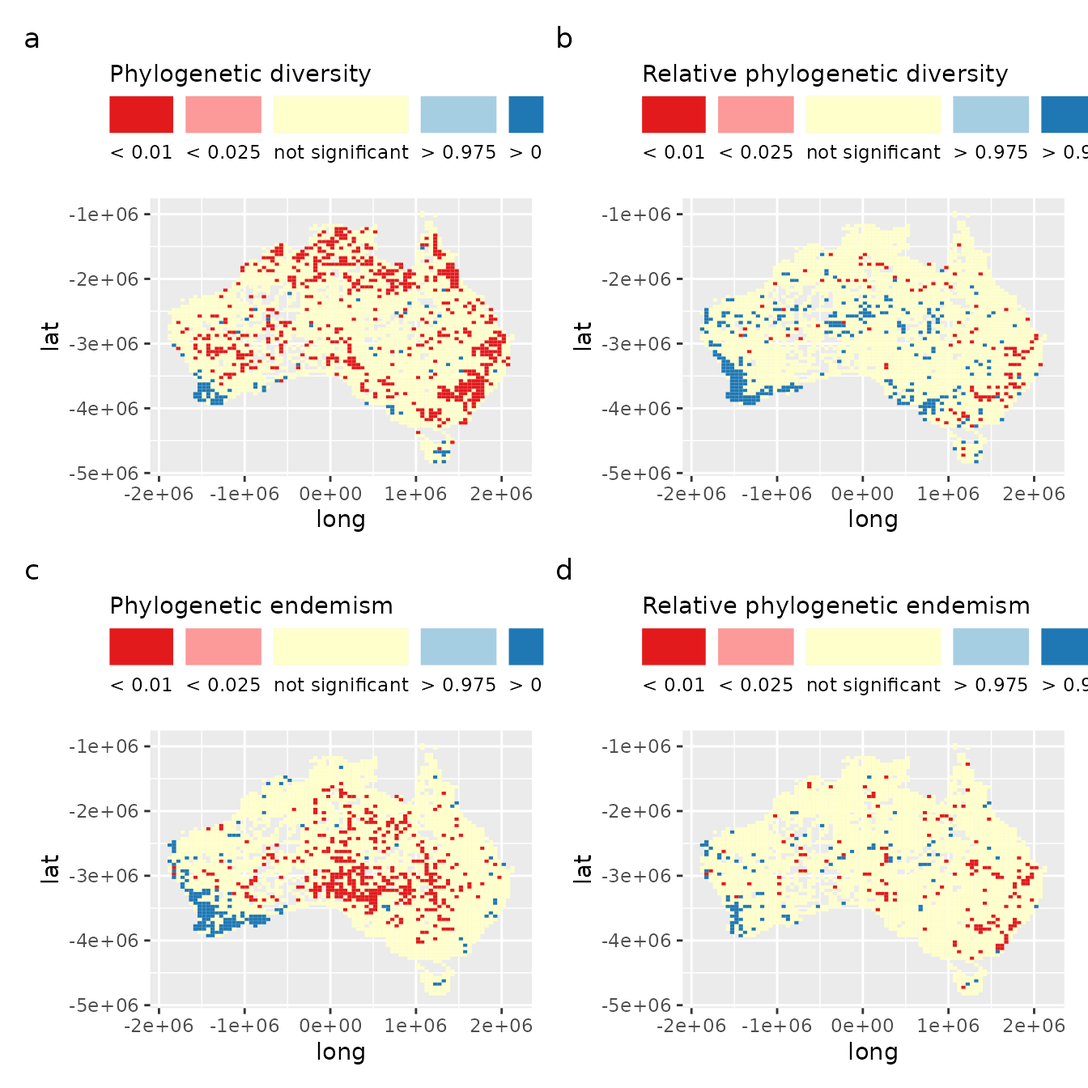
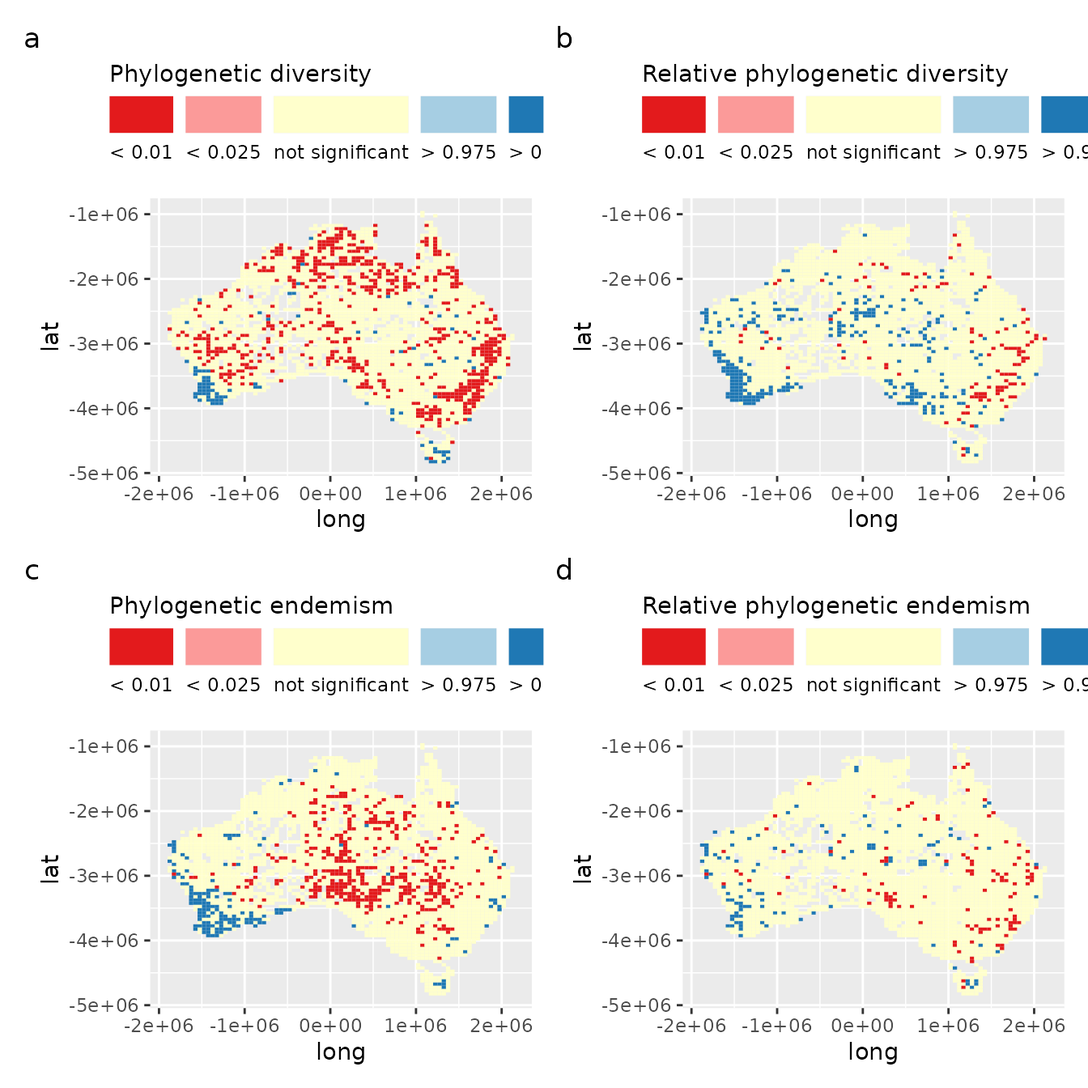
Deploying to gh-pages from @ joelnitta/canaper@78313fb76f9daac3ecedebcfb2779b6495ab327d 🚀

diff --git a/articles/canape.html b/articles/canape.html
@@ -87,7 +87,7 @@
       <h1 data-toc-skip>CANAPE example</h1>
                         <h4 data-toc-skip class="author">Joel H. Nitta</h4>
             
-            <h4 data-toc-skip class="date">27 August, 2022</h4>
+            <h4 data-toc-skip class="date">31 August, 2022</h4>
       
       <small class="dont-index">Source: <a href="https://github.com/joelnitta/canaper/blob/HEAD/vignettes/canape.Rmd" class="external-link"><code>vignettes/canape.Rmd</code></a></small>
       <div class="hidden name"><code>canape.Rmd</code></div>
@@ -128,26 +128,26 @@
 <p>The second, <code>comm</code>, is a community dataframe with species as columns and rows as sites. The row names (sites) correspond to the centroids of 50 x 50 km grid cells covering Australia. The community matrix is too large to print out in its entirety, so we will just take a look at the first 8 rows and columns<a href="#fn1" class="footnote-ref" id="fnref1"><sup>1</sup></a>:</p>
 <div class="sourceCode" id="cb4"><pre class="downlit sourceCode r">
 <code class="sourceCode R"><span><span class="fu"><a href="https://rdrr.io/r/base/dim.html" class="external-link">dim</a></span><span class="op">(</span><span class="va">acacia</span><span class="op">$</span><span class="va">comm</span><span class="op">)</span></span>
-<span><span class="co">#&gt; [1] 3037  506</span></span>
+<span><span class="co">#&gt; [1] 3037  508</span></span>
 <span><span class="va">acacia</span><span class="op">$</span><span class="va">comm</span><span class="op">[</span><span class="fl">1</span><span class="op">:</span><span class="fl">8</span>, <span class="fl">1</span><span class="op">:</span><span class="fl">8</span><span class="op">]</span></span>
-<span><span class="co">#&gt;                     abbreviata acanthaster acanthoclada acinacea aciphylla</span></span>
-<span><span class="co">#&gt; '-1025000:-1825000'          0           0            0        0         0</span></span>
-<span><span class="co">#&gt; '-1025000:-1875000'          0           0            0        0         0</span></span>
-<span><span class="co">#&gt; '-1025000:-1925000'          0           0            0        0         0</span></span>
-<span><span class="co">#&gt; '-1025000:-1975000'          0           0            0        0         0</span></span>
-<span><span class="co">#&gt; '-1025000:-2025000'          0           0            0        0         0</span></span>
-<span><span class="co">#&gt; '-1025000:-2075000'          0           0            0        0         0</span></span>
-<span><span class="co">#&gt; '-1025000:-2125000'          0           0            0        0         0</span></span>
-<span><span class="co">#&gt; '-1025000:-2225000'          0           0            0        0         0</span></span>
-<span><span class="co">#&gt;                     acoma acradenia acrionastes</span></span>
-<span><span class="co">#&gt; '-1025000:-1825000'     0         0           0</span></span>
-<span><span class="co">#&gt; '-1025000:-1875000'     0         0           0</span></span>
-<span><span class="co">#&gt; '-1025000:-1925000'     0         0           0</span></span>
-<span><span class="co">#&gt; '-1025000:-1975000'     0         0           0</span></span>
-<span><span class="co">#&gt; '-1025000:-2025000'     0         0           0</span></span>
-<span><span class="co">#&gt; '-1025000:-2075000'     0         0           0</span></span>
-<span><span class="co">#&gt; '-1025000:-2125000'     0         0           0</span></span>
-<span><span class="co">#&gt; '-1025000:-2225000'     0         0           0</span></span></code></pre></div>
+<span><span class="co">#&gt;                   abbreviata acanthaster acanthoclada acinacea aciphylla acoma</span></span>
+<span><span class="co">#&gt; -1025000:-1825000          0           0            0        0         0     0</span></span>
+<span><span class="co">#&gt; -1025000:-1875000          0           0            0        0         0     0</span></span>
+<span><span class="co">#&gt; -1025000:-1925000          0           0            0        0         0     0</span></span>
+<span><span class="co">#&gt; -1025000:-1975000          0           0            0        0         0     0</span></span>
+<span><span class="co">#&gt; -1025000:-2025000          0           0            0        0         0     0</span></span>
+<span><span class="co">#&gt; -1025000:-2075000          0           0            0        0         0     0</span></span>
+<span><span class="co">#&gt; -1025000:-2125000          0           0            0        0         0     0</span></span>
+<span><span class="co">#&gt; -1025000:-2225000          0           0            0        0         0     0</span></span>
+<span><span class="co">#&gt;                   acradenia acrionastes</span></span>
+<span><span class="co">#&gt; -1025000:-1825000         0           0</span></span>
+<span><span class="co">#&gt; -1025000:-1875000         0           0</span></span>
+<span><span class="co">#&gt; -1025000:-1925000         0           0</span></span>
+<span><span class="co">#&gt; -1025000:-1975000         0           0</span></span>
+<span><span class="co">#&gt; -1025000:-2025000         0           0</span></span>
+<span><span class="co">#&gt; -1025000:-2075000         0           0</span></span>
+<span><span class="co">#&gt; -1025000:-2125000         0           0</span></span>
+<span><span class="co">#&gt; -1025000:-2225000         0           0</span></span></code></pre></div>
 </div>
 <div class="section level2">
 <h2 id="randomization-test">Randomization test<a class="anchor" aria-label="anchor" href="#randomization-test"></a>
@@ -183,9 +183,9 @@
 <span>  tbl_out <span class="op">=</span> <span class="cn">TRUE</span></span>
 <span><span class="op">)</span></span>
 <span><span class="co">#&gt; Warning in match_phylo_comm(phy = phy, comm = comm): Dropping tips from the tree because they are not present in the community data: </span></span>
-<span><span class="co">#&gt;  Pararchidendron_pruinosum, Paraserianthes_lophantha, saligna, clunies-rossiae</span></span>
+<span><span class="co">#&gt;  Pararchidendron_pruinosum, Paraserianthes_lophantha</span></span>
 <span><span class="fu"><a href="https://rdrr.io/pkg/tictoc/man/tic.html" class="external-link">toc</a></span><span class="op">(</span><span class="op">)</span> <span class="co"># See how long it took</span></span>
-<span><span class="co">#&gt; 24.798 sec elapsed</span></span>
+<span><span class="co">#&gt; 35.723 sec elapsed</span></span>
 <span></span>
 <span><span class="co"># Switch back to sequential (non-parallel) mode</span></span>
 <span><span class="fu"><a href="https://future.futureverse.org/reference/plan.html" class="external-link">plan</a></span><span class="op">(</span><span class="va">sequential</span><span class="op">)</span></span></code></pre></div>
@@ -195,16 +195,16 @@
 <span><span class="co">#&gt; <span style="color: #949494;"># A tibble: 3,037 × 55</span></span></span>
 <span><span class="co">#&gt;    site   pd_obs pd_ra…¹ pd_ra…² pd_ob…³ pd_ob…⁴ pd_ob…⁵ pd_ob…⁶ pd_ob…⁷ pd_ob…⁸</span></span>
 <span><span class="co">#&gt;    <span style="color: #949494; font-style: italic;">&lt;chr&gt;</span>   <span style="color: #949494; font-style: italic;">&lt;dbl&gt;</span>   <span style="color: #949494; font-style: italic;">&lt;dbl&gt;</span>   <span style="color: #949494; font-style: italic;">&lt;dbl&gt;</span>   <span style="color: #949494; font-style: italic;">&lt;dbl&gt;</span>   <span style="color: #949494; font-style: italic;">&lt;dbl&gt;</span>   <span style="color: #949494; font-style: italic;">&lt;dbl&gt;</span>   <span style="color: #949494; font-style: italic;">&lt;dbl&gt;</span>   <span style="color: #949494; font-style: italic;">&lt;dbl&gt;</span>   <span style="color: #949494; font-style: italic;">&lt;dbl&gt;</span></span></span>
-<span><span class="co">#&gt; <span style="color: #BCBCBC;"> 1</span> '-102… 0.014<span style="text-decoration: underline;">5</span>  0.021<span style="text-decoration: underline;">5</span> 0.003<span style="text-decoration: underline;">85</span> -<span style="color: #BB0000;">1.82</span>         0      20      20    0       1   </span></span>
-<span><span class="co">#&gt; <span style="color: #BCBCBC;"> 2</span> '-102… 0.038<span style="text-decoration: underline;">3</span>  0.052<span style="text-decoration: underline;">1</span> 0.007<span style="text-decoration: underline;">62</span> -<span style="color: #BB0000;">1.81</span>         0      20      20    0       1   </span></span>
-<span><span class="co">#&gt; <span style="color: #BCBCBC;"> 3</span> '-102… 0.037<span style="text-decoration: underline;">9</span>  0.037<span style="text-decoration: underline;">2</span> 0.006<span style="text-decoration: underline;">56</span>  0.106       11       9      20    0.55    0.45</span></span>
-<span><span class="co">#&gt; <span style="color: #BCBCBC;"> 4</span> '-102… 0.057<span style="text-decoration: underline;">1</span>  0.062<span style="text-decoration: underline;">2</span> 0.007<span style="text-decoration: underline;">78</span> -<span style="color: #BB0000;">0.651</span>        6      14      20    0.3     0.7 </span></span>
-<span><span class="co">#&gt; <span style="color: #BCBCBC;"> 5</span> '-102… 0.041<span style="text-decoration: underline;">0</span>  0.040<span style="text-decoration: underline;">8</span> 0.006<span style="text-decoration: underline;">01</span>  0.020<span style="text-decoration: underline;">8</span>      10      10      20    0.5     0.5 </span></span>
-<span><span class="co">#&gt; <span style="color: #BCBCBC;"> 6</span> '-102… 0.010<span style="text-decoration: underline;">0</span>  0.011<span style="text-decoration: underline;">0</span> 0.002<span style="text-decoration: underline;">13</span> -<span style="color: #BB0000;">0.471</span>       11       9      20    0.55    0.45</span></span>
-<span><span class="co">#&gt; <span style="color: #BCBCBC;"> 7</span> '-102… 0.018<span style="text-decoration: underline;">8</span>  0.023<span style="text-decoration: underline;">6</span> 0.004<span style="text-decoration: underline;">82</span> -<span style="color: #BB0000;">1.01</span>         3      17      20    0.15    0.85</span></span>
-<span><span class="co">#&gt; <span style="color: #BCBCBC;"> 8</span> '-102… 0.043<span style="text-decoration: underline;">5</span>  0.054<span style="text-decoration: underline;">1</span> 0.009<span style="text-decoration: underline;">62</span> -<span style="color: #BB0000;">1.10</span>         3      17      20    0.15    0.85</span></span>
-<span><span class="co">#&gt; <span style="color: #BCBCBC;"> 9</span> '-102… 0.011<span style="text-decoration: underline;">1</span>  0.010<span style="text-decoration: underline;">5</span> 0.001<span style="text-decoration: underline;">95</span>  0.349       14       6      20    0.7     0.3 </span></span>
-<span><span class="co">#&gt; <span style="color: #BCBCBC;">10</span> '-102… 0.090<span style="text-decoration: underline;">5</span>  0.085<span style="text-decoration: underline;">3</span> 0.009<span style="text-decoration: underline;">94</span>  0.519       14       6      20    0.7     0.3 </span></span>
+<span><span class="co">#&gt; <span style="color: #BCBCBC;"> 1</span> -102… 0.014<span style="text-decoration: underline;">5</span>  0.024<span style="text-decoration: underline;">1</span>  0.005<span style="text-decoration: underline;">82</span> -<span style="color: #BB0000;">1.65</span>         1      19      20    0.05    0.95</span></span>
+<span><span class="co">#&gt; <span style="color: #BCBCBC;"> 2</span> -102… 0.038<span style="text-decoration: underline;">2</span>  0.048<span style="text-decoration: underline;">9</span>  0.007<span style="text-decoration: underline;">42</span> -<span style="color: #BB0000;">1.44</span>         1      19      20    0.05    0.95</span></span>
+<span><span class="co">#&gt; <span style="color: #BCBCBC;"> 3</span> -102… 0.037<span style="text-decoration: underline;">8</span>  0.037<span style="text-decoration: underline;">3</span>  0.005<span style="text-decoration: underline;">90</span>  0.080<span style="text-decoration: underline;">3</span>      10      10      20    0.5     0.5 </span></span>
+<span><span class="co">#&gt; <span style="color: #BCBCBC;"> 4</span> -102… 0.057<span style="text-decoration: underline;">0</span>  0.062<span style="text-decoration: underline;">3</span>  0.009<span style="text-decoration: underline;">17</span> -<span style="color: #BB0000;">0.573</span>        7      13      20    0.35    0.65</span></span>
+<span><span class="co">#&gt; <span style="color: #BCBCBC;"> 5</span> -102… 0.040<span style="text-decoration: underline;">9</span>  0.041<span style="text-decoration: underline;">5</span>  0.005<span style="text-decoration: underline;">75</span> -<span style="color: #BB0000;">0.119</span>       11       9      20    0.55    0.45</span></span>
+<span><span class="co">#&gt; <span style="color: #BCBCBC;"> 6</span> -102… 0.009<span style="text-decoration: underline;">98</span> 0.010<span style="text-decoration: underline;">3</span>  0.001<span style="text-decoration: underline;">78</span> -<span style="color: #BB0000;">0.190</span>        8      12      20    0.4     0.6 </span></span>
+<span><span class="co">#&gt; <span style="color: #BCBCBC;"> 7</span> -102… 0.018<span style="text-decoration: underline;">7</span>  0.021<span style="text-decoration: underline;">4</span>  0.003<span style="text-decoration: underline;">94</span> -<span style="color: #BB0000;">0.689</span>        6      14      20    0.3     0.7 </span></span>
+<span><span class="co">#&gt; <span style="color: #BCBCBC;"> 8</span> -102… 0.043<span style="text-decoration: underline;">4</span>  0.056<span style="text-decoration: underline;">4</span>  0.007<span style="text-decoration: underline;">82</span> -<span style="color: #BB0000;">1.66</span>         1      19      20    0.05    0.95</span></span>
+<span><span class="co">#&gt; <span style="color: #BCBCBC;"> 9</span> -102… 0.011<span style="text-decoration: underline;">1</span>  0.009<span style="text-decoration: underline;">89</span> 0.001<span style="text-decoration: underline;">73</span>  0.704       17       3      20    0.85    0.15</span></span>
+<span><span class="co">#&gt; <span style="color: #BCBCBC;">10</span> -102… 0.090<span style="text-decoration: underline;">3</span>  0.087<span style="text-decoration: underline;">8</span>  0.010<span style="text-decoration: underline;">4</span>   0.246       11       9      20    0.55    0.45</span></span>
 <span><span class="co">#&gt; <span style="color: #949494;"># … with 3,027 more rows, 45 more variables: pd_alt_obs &lt;dbl&gt;,</span></span></span>
 <span><span class="co">#&gt; <span style="color: #949494;">#   pd_alt_rand_mean &lt;dbl&gt;, pd_alt_rand_sd &lt;dbl&gt;, pd_alt_obs_z &lt;dbl&gt;,</span></span></span>
 <span><span class="co">#&gt; <span style="color: #949494;">#   pd_alt_obs_c_upper &lt;dbl&gt;, pd_alt_obs_c_lower &lt;dbl&gt;, pd_alt_obs_q &lt;dbl&gt;,</span></span></span>
@@ -241,7 +241,7 @@
 <span><span class="fu"><a href="https://rdrr.io/r/base/table.html" class="external-link">table</a></span><span class="op">(</span><span class="va">acacia_canape</span><span class="op">$</span><span class="va">endem_type</span><span class="op">)</span></span>
 <span><span class="co">#&gt; </span></span>
 <span><span class="co">#&gt;           mixed             neo not significant           paleo           super </span></span>
-<span><span class="co">#&gt;              87              20            2797              52              81</span></span></code></pre></div>
+<span><span class="co">#&gt;             105              13            2791              58              70</span></span></code></pre></div>
 </div>
 <div class="section level2">
 <h2 id="classify-significance">Classify significance<a class="anchor" aria-label="anchor" href="#classify-significance"></a>
@@ -260,7 +260,7 @@
 <span><span class="fu"><a href="https://rdrr.io/r/base/table.html" class="external-link">table</a></span><span class="op">(</span><span class="va">acacia_canape</span><span class="op">$</span><span class="va">pd_signif</span><span class="op">)</span></span>
 <span><span class="co">#&gt; </span></span>
 <span><span class="co">#&gt;          &lt; 0.01          &gt; 0.99 not significant </span></span>
-<span><span class="co">#&gt;             591              80            2366</span></span></code></pre></div>
+<span><span class="co">#&gt;             609              95            2333</span></span></code></pre></div>
 </div>
 <div class="section level2">
 <h2 id="visualize-results">Visualize results<a class="anchor" aria-label="anchor" href="#visualize-results"></a>

diff --git a/articles/parallel.html b/articles/parallel.html
@@ -87,7 +87,7 @@
       <h1 data-toc-skip>Parallel computing</h1>
                         <h4 data-toc-skip class="author">Joel H. Nitta</h4>
             
-            <h4 data-toc-skip class="date">27 August, 2022</h4>
+            <h4 data-toc-skip class="date">31 August, 2022</h4>
       
       <small class="dont-index">Source: <a href="https://github.com/joelnitta/canaper/blob/HEAD/vignettes/parallel.Rmd" class="external-link"><code>vignettes/parallel.Rmd</code></a></small>
       <div class="hidden name"><code>parallel.Rmd</code></div>
@@ -120,7 +120,7 @@
 <span>  null_model <span class="op">=</span> <span class="st">"swap"</span>, n_reps <span class="op">=</span> <span class="fl">50</span></span>
 <span><span class="op">)</span></span>
 <span><span class="fu"><a href="https://rdrr.io/pkg/tictoc/man/tic.html" class="external-link">toc</a></span><span class="op">(</span><span class="op">)</span></span>
-<span><span class="co">#&gt; 11.759 sec elapsed</span></span></code></pre></div>
+<span><span class="co">#&gt; 14.703 sec elapsed</span></span></code></pre></div>
 <p>Since we have specified 50 random replicates and are not using parallel computing, <code><a href="../reference/cpr_rand_test.html">cpr_rand_test()</a></code> calculated the various phylogenetic diversity metrics for each of the 50 replicates one at a time.</p>
 </div>
 <div class="section level3">
@@ -143,7 +143,7 @@
 <span>  null_model <span class="op">=</span> <span class="st">"swap"</span>, n_reps <span class="op">=</span> <span class="fl">50</span></span>
 <span><span class="op">)</span></span>
 <span><span class="fu"><a href="https://rdrr.io/pkg/tictoc/man/tic.html" class="external-link">toc</a></span><span class="op">(</span><span class="op">)</span></span>
-<span><span class="co">#&gt; 9.626 sec elapsed</span></span>
+<span><span class="co">#&gt; 12.805 sec elapsed</span></span>
 <span></span>
 <span><span class="co"># Change back to default sequential mode</span></span>
 <span><span class="fu"><a href="https://future.futureverse.org/reference/plan.html" class="external-link">plan</a></span><span class="op">(</span><span class="va">sequential</span><span class="op">)</span></span></code></pre></div>
@@ -165,7 +165,7 @@
 <div class="sourceCode" id="cb6"><pre class="downlit sourceCode r">
 <code class="sourceCode R"><span><span class="co"># dim() returns number of rows, then columns</span></span>
 <span><span class="fu"><a href="https://rdrr.io/r/base/dim.html" class="external-link">dim</a></span><span class="op">(</span><span class="va">acacia</span><span class="op">$</span><span class="va">comm</span><span class="op">)</span></span>
-<span><span class="co">#&gt; [1] 3037  506</span></span></code></pre></div>
+<span><span class="co">#&gt; [1] 3037  508</span></span></code></pre></div>
 <p>Quite a bit larger!</p>
 <p>Let’s see how parallel computing works on the <code>acacia</code> dataset:</p>
 <div class="sourceCode" id="cb7"><pre class="downlit sourceCode r">
@@ -179,9 +179,9 @@
 <span><span class="co">#&gt; 'n_iterations' are sufficiently large to ensure adequate mixing of random</span></span>
 <span><span class="co">#&gt; communities</span></span>
 <span><span class="co">#&gt; Warning in match_phylo_comm(phy = phy, comm = comm): Dropping tips from the tree because they are not present in the community data: </span></span>
-<span><span class="co">#&gt;  Pararchidendron_pruinosum, Paraserianthes_lophantha, saligna, clunies-rossiae</span></span>
+<span><span class="co">#&gt;  Pararchidendron_pruinosum, Paraserianthes_lophantha</span></span>
 <span><span class="fu"><a href="https://rdrr.io/pkg/tictoc/man/tic.html" class="external-link">toc</a></span><span class="op">(</span><span class="op">)</span></span>
-<span><span class="co">#&gt; 53.313 sec elapsed</span></span></code></pre></div>
+<span><span class="co">#&gt; 76.442 sec elapsed</span></span></code></pre></div>
 <div class="sourceCode" id="cb8"><pre class="downlit sourceCode r">
 <code class="sourceCode R"><span><span class="co"># Run cpr_rand_test() in parallel with 2 CPUs</span></span>
 <span><span class="fu"><a href="https://future.futureverse.org/reference/plan.html" class="external-link">plan</a></span><span class="op">(</span><span class="va">multisession</span>, workers <span class="op">=</span> <span class="fl">2</span><span class="op">)</span></span>
@@ -194,9 +194,9 @@
 <span><span class="co">#&gt; 'n_iterations' are sufficiently large to ensure adequate mixing of random</span></span>
 <span><span class="co">#&gt; communities</span></span>
 <span><span class="co">#&gt; Warning in match_phylo_comm(phy = phy, comm = comm): Dropping tips from the tree because they are not present in the community data: </span></span>
-<span><span class="co">#&gt;  Pararchidendron_pruinosum, Paraserianthes_lophantha, saligna, clunies-rossiae</span></span>
+<span><span class="co">#&gt;  Pararchidendron_pruinosum, Paraserianthes_lophantha</span></span>
 <span><span class="fu"><a href="https://rdrr.io/pkg/tictoc/man/tic.html" class="external-link">toc</a></span><span class="op">(</span><span class="op">)</span></span>
-<span><span class="co">#&gt; 37.371 sec elapsed</span></span></code></pre></div>
+<span><span class="co">#&gt; 52.073 sec elapsed</span></span></code></pre></div>
 <p>And now we start to see the performance improvements that be can be gained from parallel computing!<a href="#fn3" class="footnote-ref" id="fnref3"><sup>3</sup></a></p>
 </div>
 <div class="section level2">

diff --git a/articles/how-many-rand.html b/articles/how-many-rand.html
@@ -87,7 +87,7 @@
       <h1 data-toc-skip>How many randomizations?</h1>
                         <h4 data-toc-skip class="author">Joel H. Nitta</h4>
             
-            <h4 data-toc-skip class="date">27 August, 2022</h4>
+            <h4 data-toc-skip class="date">31 August, 2022</h4>
       
       <small class="dont-index">Source: <a href="https://github.com/joelnitta/canaper/blob/HEAD/vignettes/how-many-rand.Rmd" class="external-link"><code>vignettes/how-many-rand.Rmd</code></a></small>
       <div class="hidden name"><code>how-many-rand.Rmd</code></div>
@@ -185,7 +185,7 @@
 <span>  n_iterations <span class="op">=</span> <span class="fl">10000</span>, n_reps <span class="op">=</span> <span class="fl">10</span>, tbl_out <span class="op">=</span> <span class="cn">TRUE</span></span>
 <span><span class="op">)</span></span>
 <span><span class="fu"><a href="https://rdrr.io/pkg/tictoc/man/tic.html" class="external-link">toc</a></span><span class="op">(</span><span class="op">)</span></span>
-<span><span class="co">#&gt; 11.145 sec elapsed</span></span>
+<span><span class="co">#&gt; 16.479 sec elapsed</span></span>
 <span><span class="fu"><a href="https://rdrr.io/pkg/tictoc/man/tic.html" class="external-link">tic</a></span><span class="op">(</span><span class="op">)</span></span>
 <span><span class="va">res_100_1</span> <span class="op">&lt;-</span> <span class="fu"><a href="../reference/cpr_rand_test.html">cpr_rand_test</a></span><span class="op">(</span></span>
 <span>  <span class="va">biod_example</span><span class="op">$</span><span class="va">comm</span>, <span class="va">biod_example</span><span class="op">$</span><span class="va">phy</span>,</span>
@@ -193,7 +193,7 @@
 <span>  n_iterations <span class="op">=</span> <span class="fl">10000</span>, n_reps <span class="op">=</span> <span class="fl">100</span>, tbl_out <span class="op">=</span> <span class="cn">TRUE</span></span>
 <span><span class="op">)</span></span>
 <span><span class="fu"><a href="https://rdrr.io/pkg/tictoc/man/tic.html" class="external-link">toc</a></span><span class="op">(</span><span class="op">)</span></span>
-<span><span class="co">#&gt; 6.469 sec elapsed</span></span>
+<span><span class="co">#&gt; 7.104 sec elapsed</span></span>
 <span><span class="fu"><a href="https://rdrr.io/pkg/tictoc/man/tic.html" class="external-link">tic</a></span><span class="op">(</span><span class="op">)</span></span>
 <span><span class="va">res_1000_1</span> <span class="op">&lt;-</span> <span class="fu"><a href="../reference/cpr_rand_test.html">cpr_rand_test</a></span><span class="op">(</span></span>
 <span>  <span class="va">biod_example</span><span class="op">$</span><span class="va">comm</span>, <span class="va">biod_example</span><span class="op">$</span><span class="va">phy</span>,</span>
@@ -201,7 +201,7 @@
 <span>  n_iterations <span class="op">=</span> <span class="fl">10000</span>, n_reps <span class="op">=</span> <span class="fl">1000</span>, tbl_out <span class="op">=</span> <span class="cn">TRUE</span></span>
 <span><span class="op">)</span></span>
 <span><span class="fu"><a href="https://rdrr.io/pkg/tictoc/man/tic.html" class="external-link">toc</a></span><span class="op">(</span><span class="op">)</span></span>
-<span><span class="co">#&gt; 62.625 sec elapsed</span></span>
+<span><span class="co">#&gt; 68.61 sec elapsed</span></span>
 <span></span>
 <span><span class="co"># Second set</span></span>
 <span><span class="fu"><a href="https://rdrr.io/r/base/Random.html" class="external-link">set.seed</a></span><span class="op">(</span><span class="fl">67890</span><span class="op">)</span></span>

diff --git a/reference/acacia.html b/reference/acacia.html
@@ -109,12 +109,12 @@ Nat Commun 5, 4473 (2014). <a href="https://doi.org/10.1038/ncomms5473" class="e
 <span class="r-out co"><span class="r-pr">#&gt;</span> Rooted; includes branch lengths.</span>
 <span class="r-in"><span><span class="co"># Example community</span></span></span>
 <span class="r-in"><span><span class="va">acacia</span><span class="op">$</span><span class="va">comm</span><span class="op">[</span><span class="fl">1</span><span class="op">:</span><span class="fl">5</span>, <span class="fl">1</span><span class="op">:</span><span class="fl">5</span><span class="op">]</span></span></span>
-<span class="r-out co"><span class="r-pr">#&gt;</span>                     abbreviata acanthaster acanthoclada acinacea aciphylla</span>
-<span class="r-out co"><span class="r-pr">#&gt;</span> '-1025000:-1825000'          0           0            0        0         0</span>
-<span class="r-out co"><span class="r-pr">#&gt;</span> '-1025000:-1875000'          0           0            0        0         0</span>
-<span class="r-out co"><span class="r-pr">#&gt;</span> '-1025000:-1925000'          0           0            0        0         0</span>
-<span class="r-out co"><span class="r-pr">#&gt;</span> '-1025000:-1975000'          0           0            0        0         0</span>
-<span class="r-out co"><span class="r-pr">#&gt;</span> '-1025000:-2025000'          0           0            0        0         0</span>
+<span class="r-out co"><span class="r-pr">#&gt;</span>                   abbreviata acanthaster acanthoclada acinacea aciphylla</span>
+<span class="r-out co"><span class="r-pr">#&gt;</span> -1025000:-1825000          0           0            0        0         0</span>
+<span class="r-out co"><span class="r-pr">#&gt;</span> -1025000:-1875000          0           0            0        0         0</span>
+<span class="r-out co"><span class="r-pr">#&gt;</span> -1025000:-1925000          0           0            0        0         0</span>
+<span class="r-out co"><span class="r-pr">#&gt;</span> -1025000:-1975000          0           0            0        0         0</span>
+<span class="r-out co"><span class="r-pr">#&gt;</span> -1025000:-2025000          0           0            0        0         0</span>
 </code></pre></div>
     </div>
   </div>
